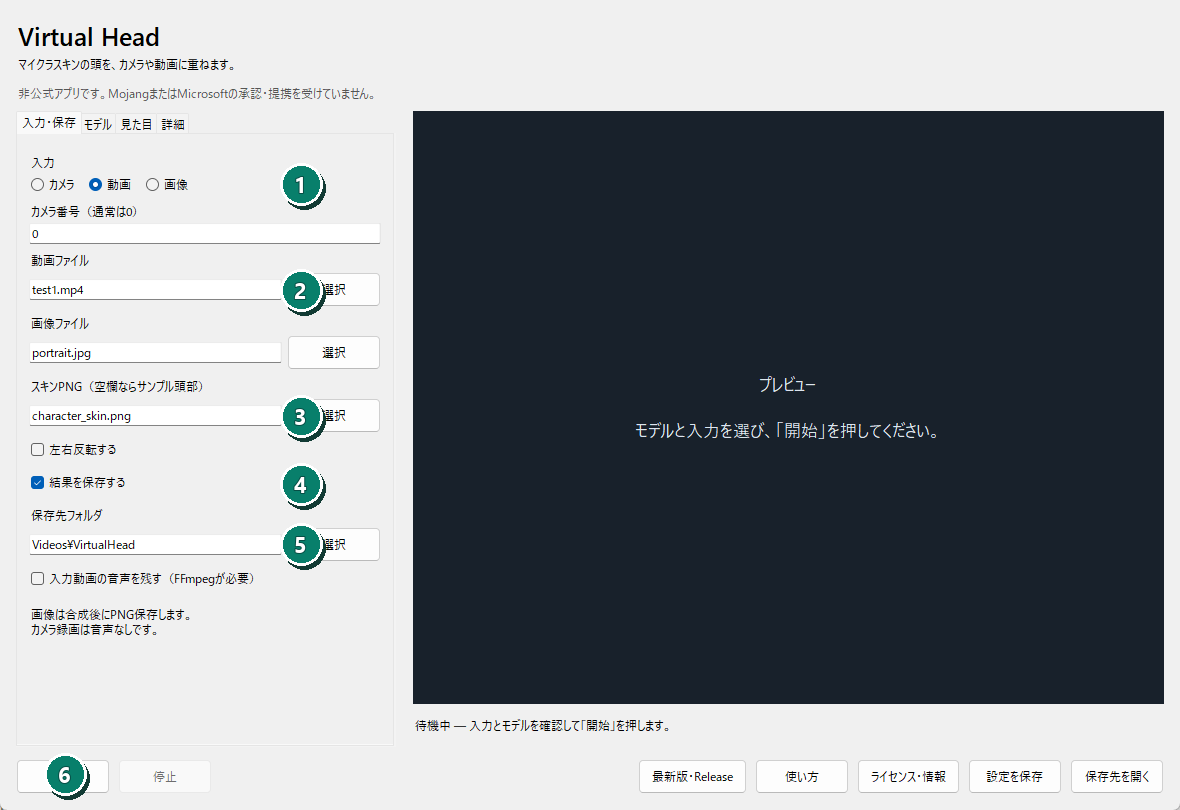
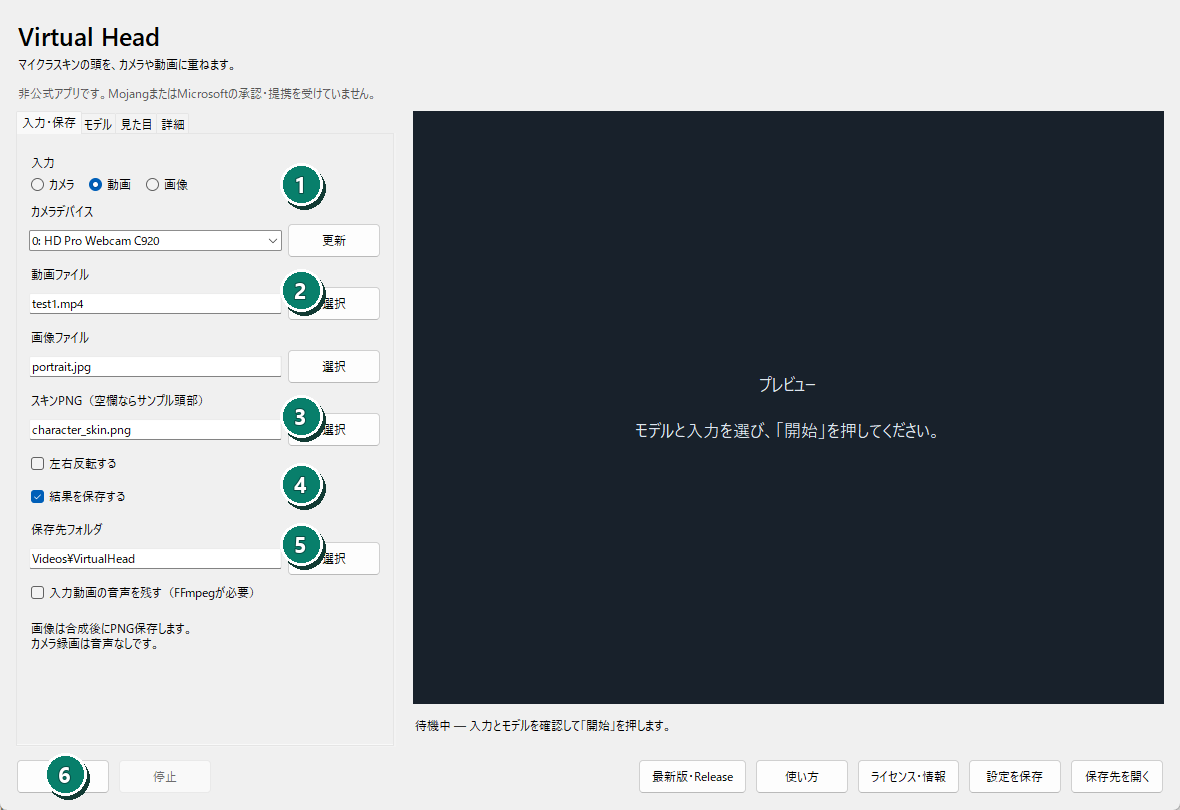
Add named camera device selection guide

diff --git a/USER_GUIDE.html b/USER_GUIDE.html
@@ -65,8 +65,8 @@ code{background:#edf2f1;border-radius:4px;padding:2px 5px} footer{max-width:1080
 
 <h2>カメラで使う</h2>
 <div class="shot"><img src="guide/images/04_camera.png" alt="カメラ入力の設定">
-<ol class="legend"><li><span class="n">1</span><span>入力で「カメラ」を選びます。</span></li><li><span class="n">2</span><span>通常はカメラ番号0を使います。</span></li><li><span class="n">3</span><span>Skin PNGを選択します。</span></li><li><span class="n">4</span><span>「開始」を押すとカメラが開きます。</span></li><li><span class="n">5</span><span>終了時は「停止」を押します。</span></li></ol></div>
-<p>録画する場合だけ「結果を保存する」を有効にします。カメラ録画に音声は入りません。</p>
+<ol class="legend"><li><span class="n">1</span><span>入力で「カメラ」を選びます。</span></li><li><span class="n">2</span><span>デバイス名の一覧から使用するカメラを選びます。接続後に表示されない場合は「更新」を押します。</span></li><li><span class="n">3</span><span>Skin PNGを選択します。</span></li><li><span class="n">4</span><span>「開始」を押すと選択したカメラが開きます。</span></li><li><span class="n">5</span><span>終了時は「停止」を押します。</span></li></ol></div>
+<p>選択したデバイス名を保存するため、カメラの接続順が変わっても同じ名前のカメラを探します。録画する場合だけ「結果を保存する」を有効にします。カメラ録画に音声は入りません。</p>
 
 <h2>モデルを設定する</h2>
 <div class="shot"><img src="guide/images/05_models.png" alt="モデル設定">

diff --git a/RELEASE_NOTES.md b/RELEASE_NOTES.md
@@ -1,6 +1,8 @@
 # 0.1.0-alpha.12（準備中）
 
 - 頭部検出4種類と回転角2種類の、名前が付いた全6モデルをUIから個別取得可能
+- 複数カメラ向けに、Windowsのデバイス名を表示するドロップダウンと一覧更新ボタンを追加
+- 保存したカメラ名を優先し、接続順が変わった場合は新しいMedia Foundation番号へ追従
 - 「選択中の頭部モデルを取得」「選択中の回転角モデルを取得」を追加
 - YOLOv9-tとYawNet 128を取得する「標準2モデルをまとめて取得」を継続
 - 直接配布される5モデルはPINTO0309氏の公式GitHub Releaseから取得
@@ -9,9 +11,9 @@
 - Goldのアーカイブではパス展開を行わず、登録済みファイル名と容量に一致する1ファイルだけを抽出
 - モデル重みは公開ZIPへ同梱せず、取得前に利用条件の確認画面を表示
 - 画像中心のガイドとライセンス・プライバシー・セキュリティ文書を新UIへ更新
-- 62件の自動テストに合格
-- 完成EXEのGUI起動、およびYawNet 64とGold-YOLO-Nの実ダウンロード・SHA-256一致を確認
-- 公開ZIPは100,892,447バイト。ONNX、第三者Skin、Virtual Head独自Pythonソースを含まない
+- 69件の自動テストに合格
+- 完成EXEのカメラ選択GUI起動、およびYawNet 64とGold-YOLO-Nの実ダウンロード・SHA-256一致を確認
+- 公開ZIPは100,966,504バイト。ONNX、第三者Skin、Virtual Head独自Pythonソースを含まない
 
 ## ダウンロード
 
@@ -21,7 +23,7 @@
 SHA-256：
 
 ```text
[2 lines of base64/hex data omitted]
 ```
 
 Gold-YOLO-Nの取得時は、公式の約1.37GBアーカイブを読みます。対象ONNXが見つかった時点で通信を終了しますが、配布側のアーカイブ構成が変わった場合に備え、最大約1.37GBの通信量を見込んでください。各モデルの条件は[MODEL_LICENSES.md](MODEL_LICENSES.md)にある公式情報から確認してください。

diff --git a/README.md b/README.md
@@ -108,7 +108,7 @@ SmartScreen自体を無効にする必要はありません。「実行」が表
 
 - PNG／JPEG／BMP／WebP画像への合成
 - 動画への合成と、FFmpeg指定時のH.264・入力音声保存
-- カメラのリアルタイムプレビューと録画
+- デバイス名で選べるカメラのリアルタイムプレビューと録画
 - Minecraft互換Skin PNGの頭部6面と髪・帽子レイヤー
 - 頭の大きさ、位置、固定Pitch、追従平滑化の調整
 - DirectML対応GPUを利用し、利用できないPCではCPUへ自動切替
@@ -146,7 +146,7 @@ CUDA DLL、任意ランドマーク、FFmpegは「詳細」タブにまとめて
 
 ![カメラ入力](guide/images/04_camera.png)
 
-通常はカメラ番号`0`を使用します。カメラ録画に音声は入りません。
+Windowsから取得したデバイス名の一覧から使用するカメラを選びます。USBカメラなどを接続した後に表示されない場合は「更新」を押してください。保存したデバイス名を優先するため、次回起動時に接続順が変わっても同じ名前のカメラを探します。カメラ録画に音声は入りません。
 
 ### 見た目
 
